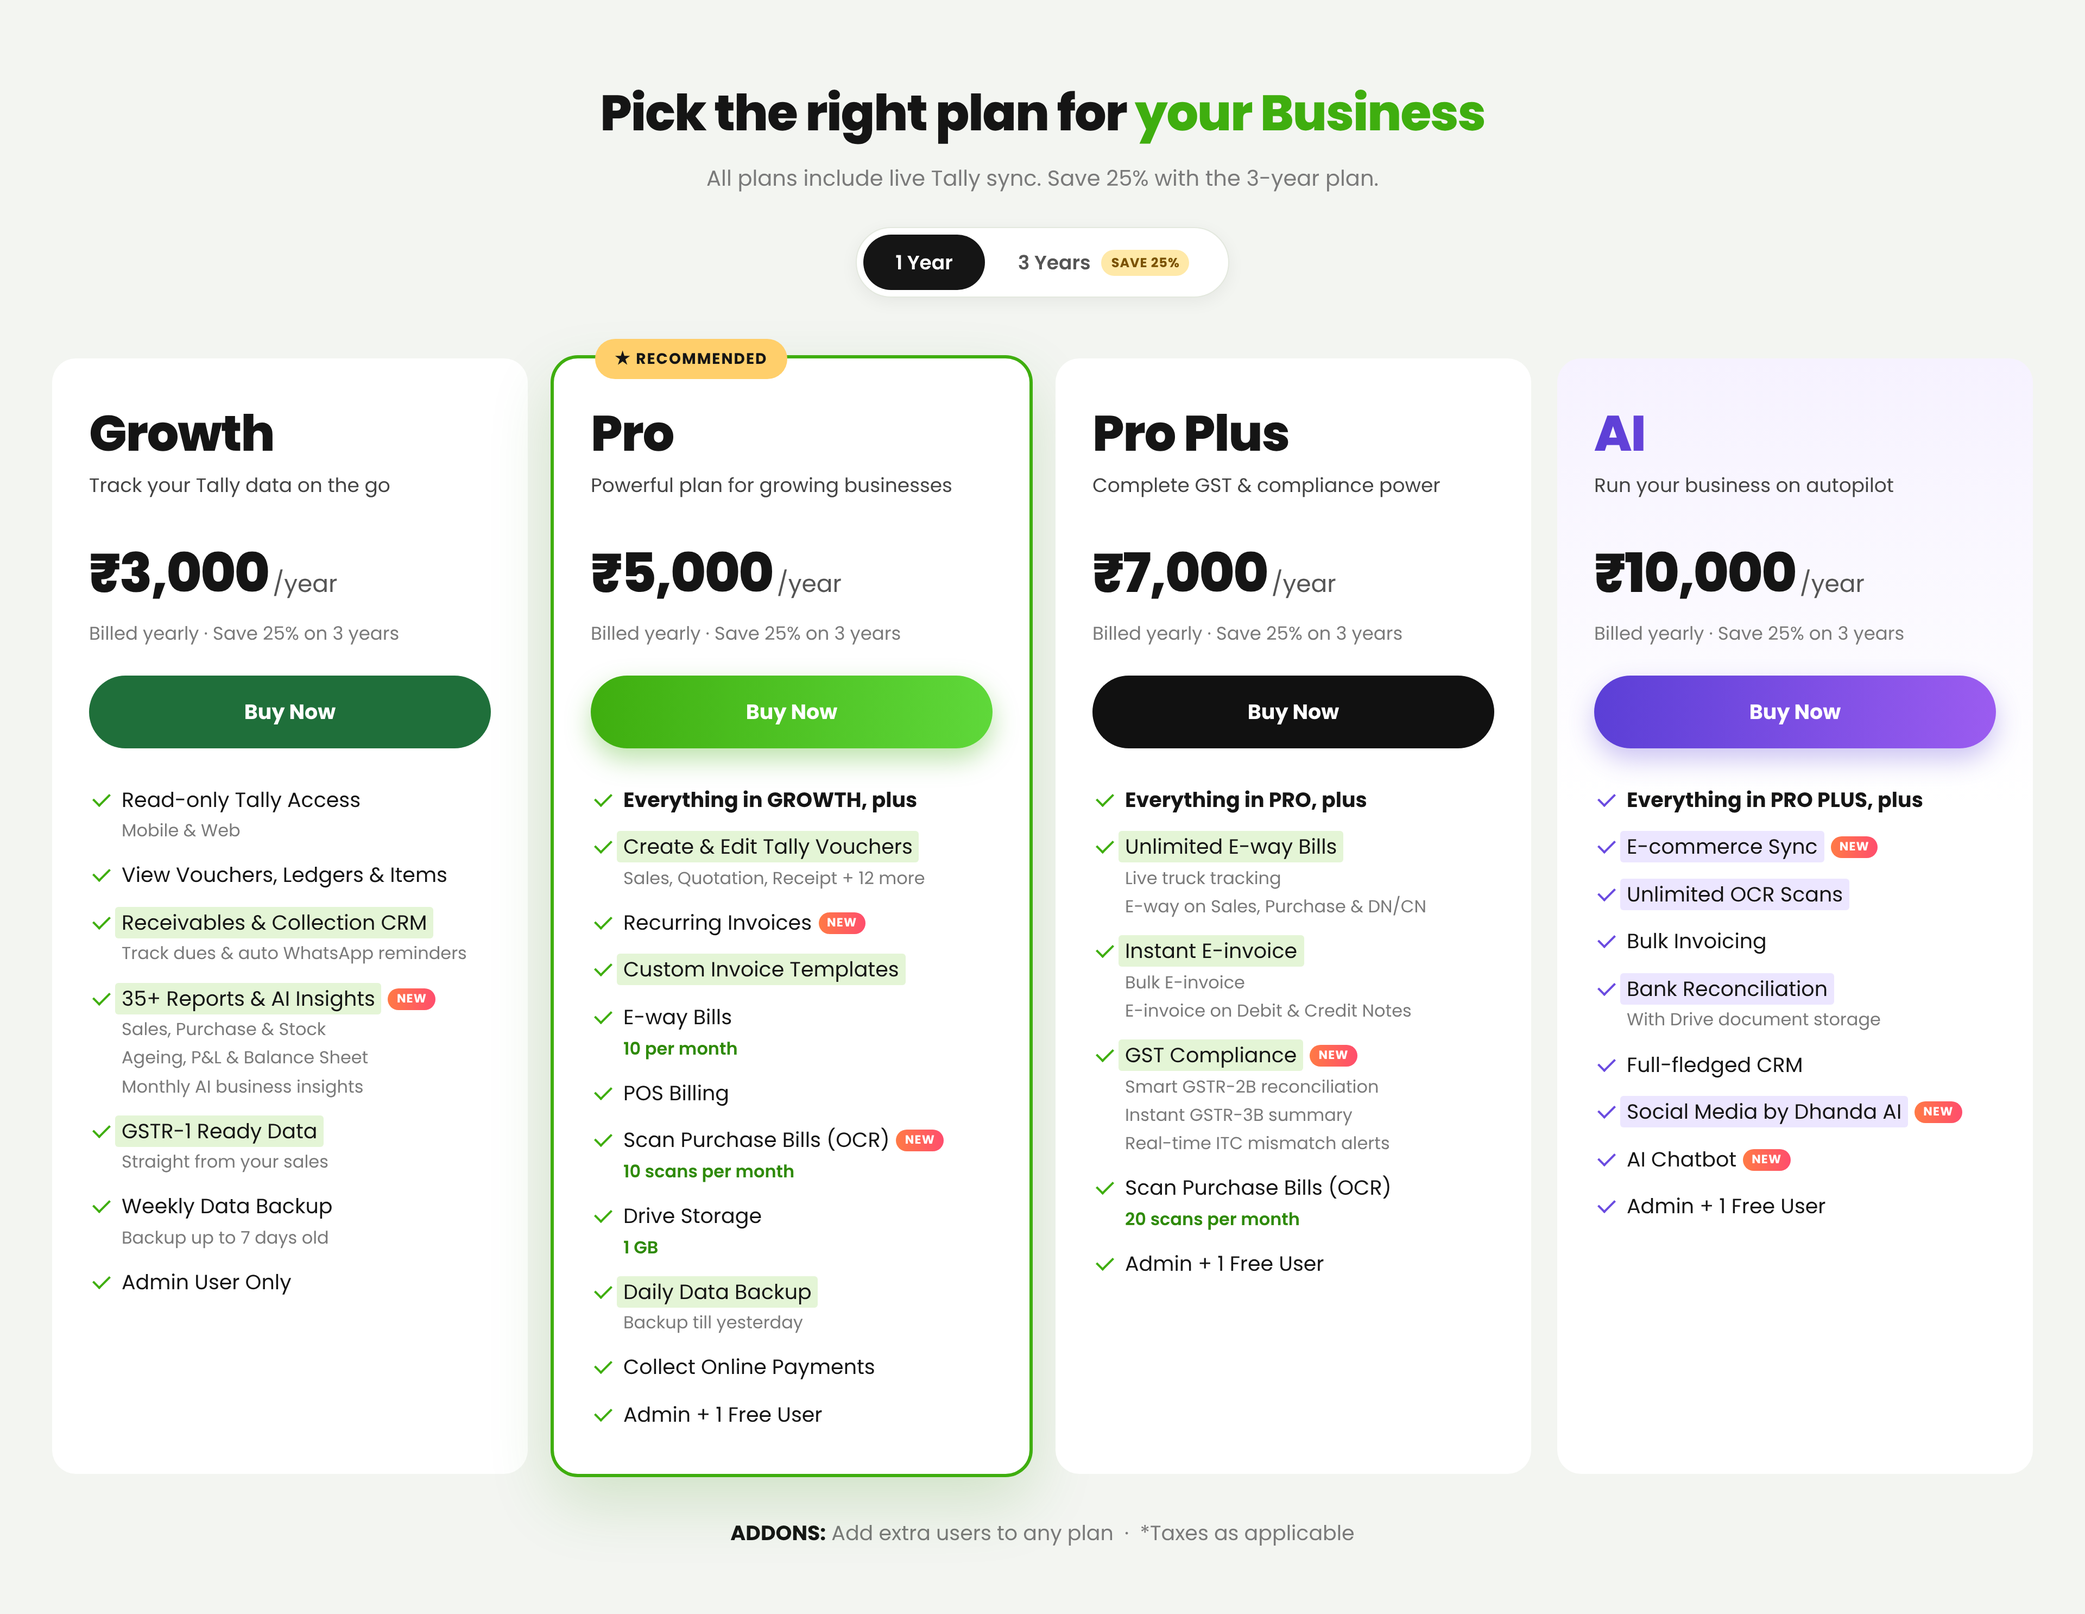
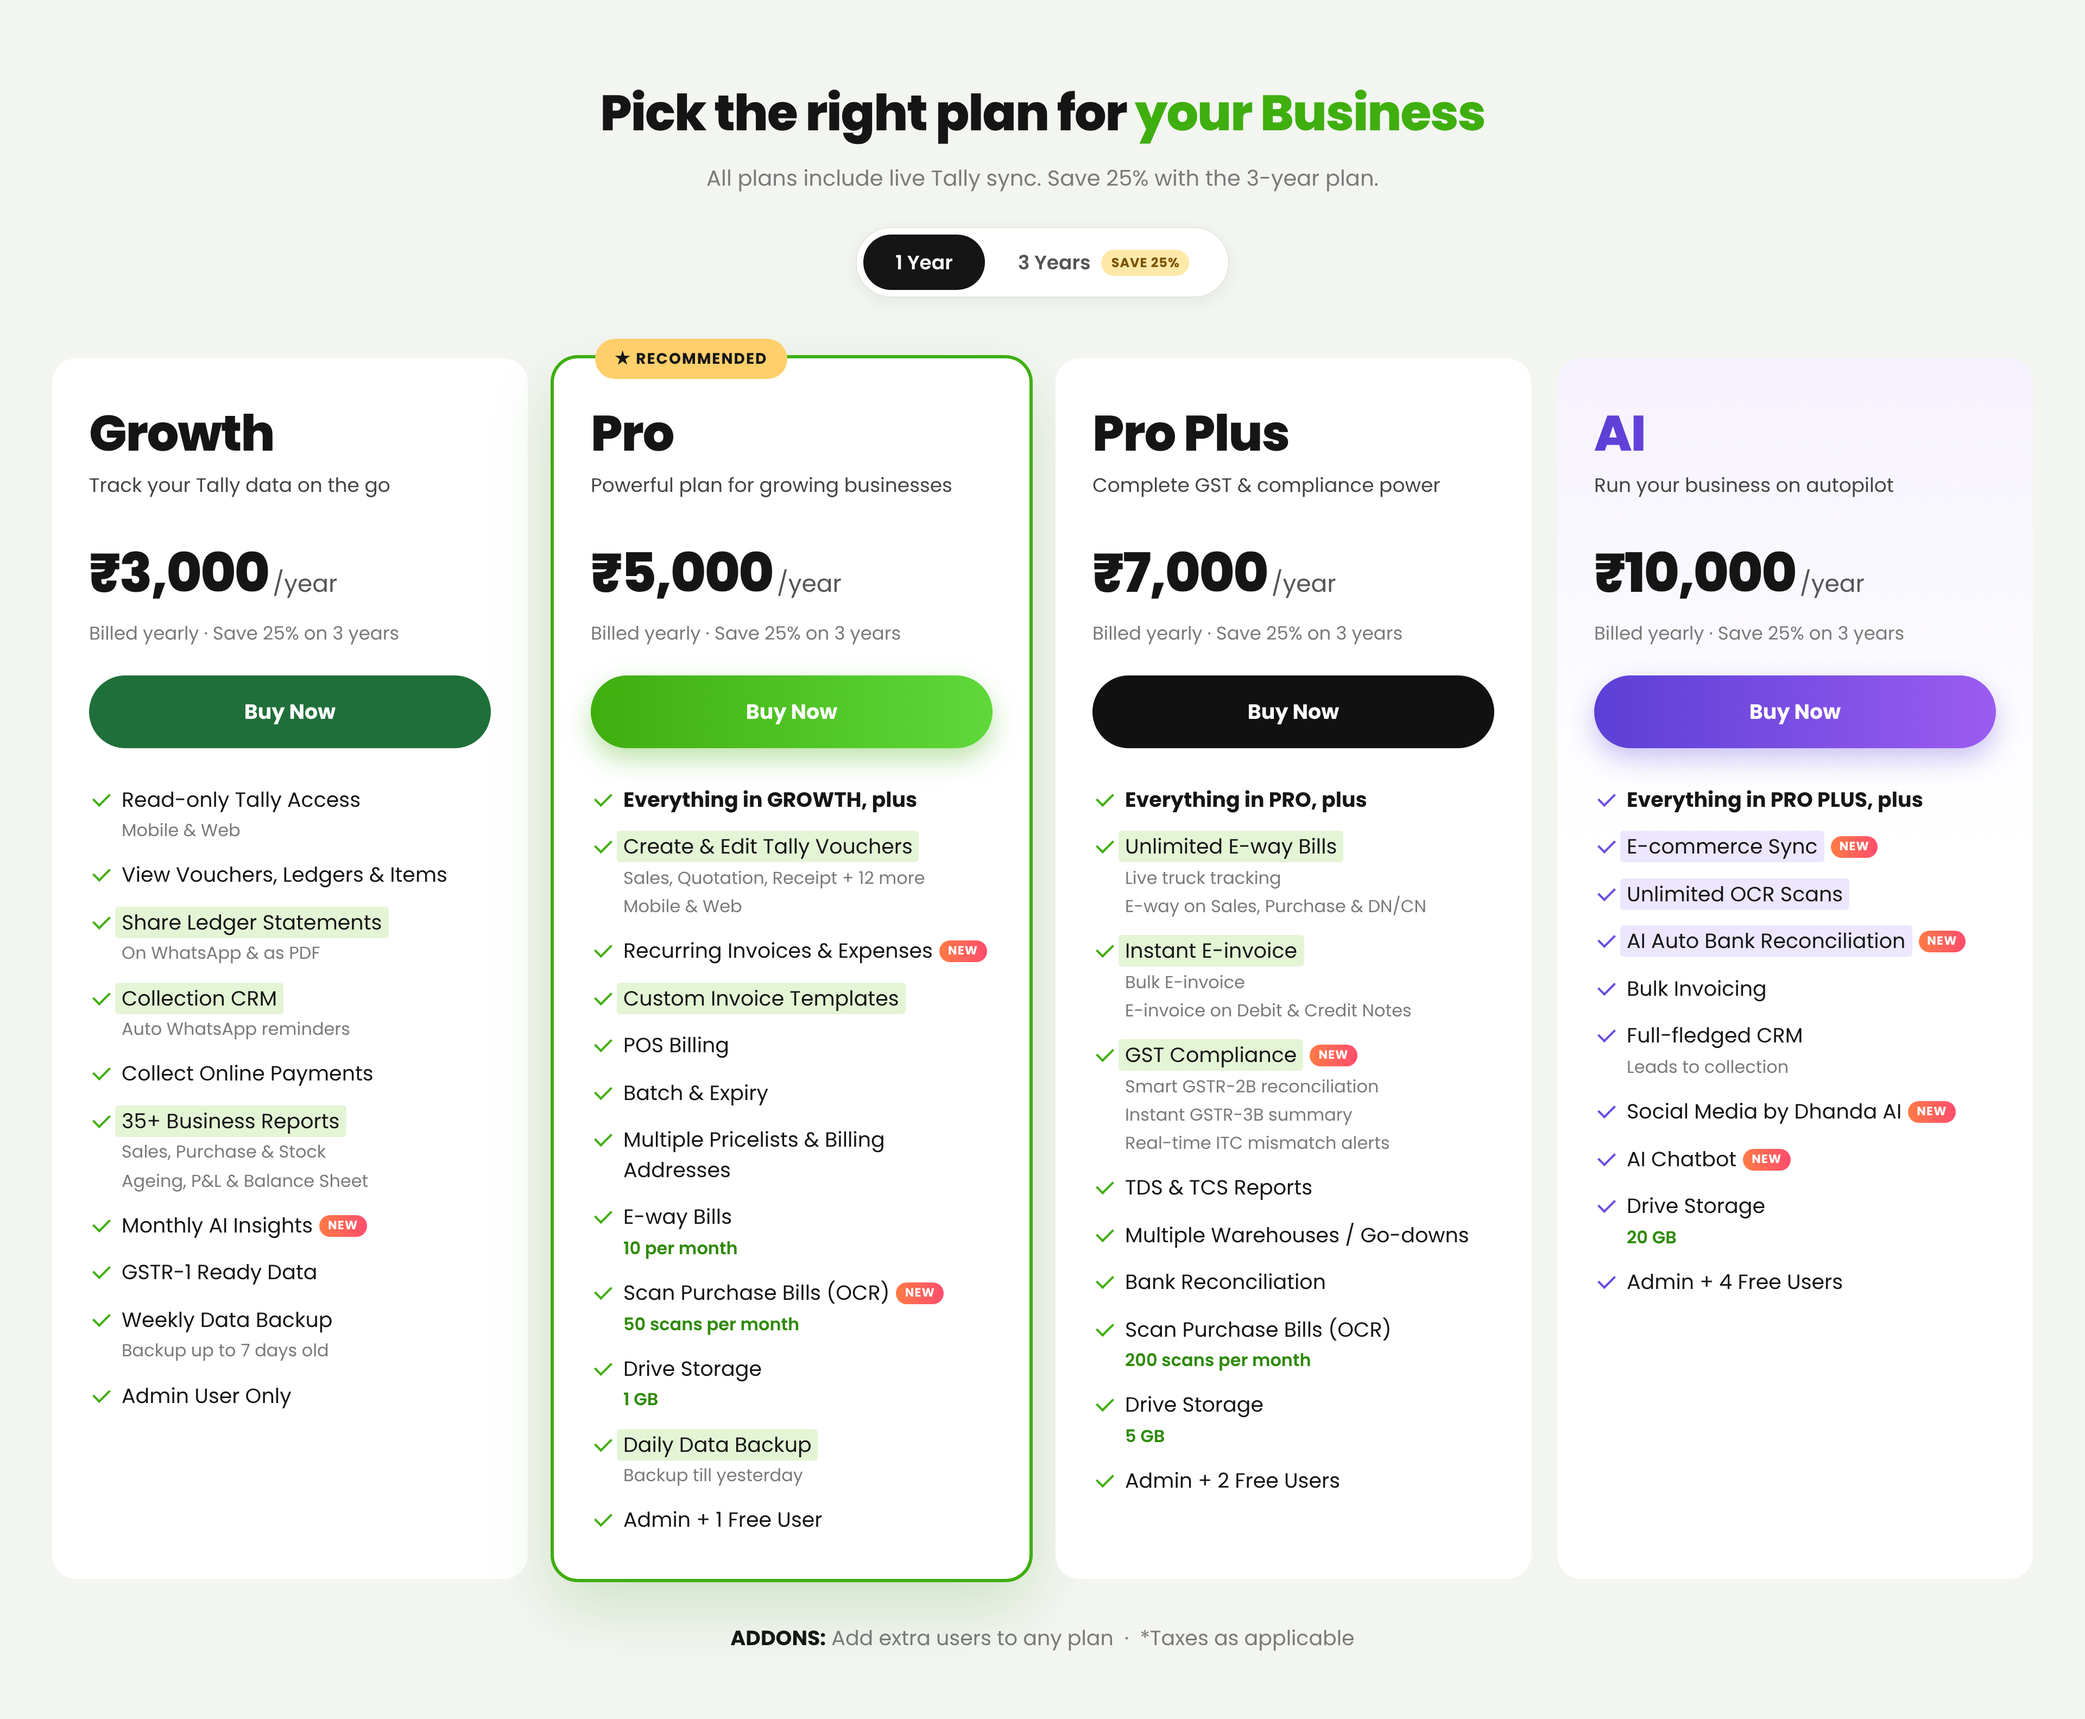
Pricing cards: final 4-plan bundle (Growth, Pro, Pro Plus, AI)
Claude-Session: https://claude.ai/code/session_01TUFe6273V25gsCzznixesV

diff --git a/livekeeping-pricing/cards.html b/livekeeping-pricing/cards.html
@@ -154,9 +154,12 @@
       <ul>
         <li><div>Read-only Tally Access<span class="note ln">Mobile &amp; Web</span></div></li>
         <li><div>View Vouchers, Ledgers &amp; Items</div></li>
-        <li><div><span class="hl">Receivables &amp; Collection CRM</span><span class="note ln">Track dues &amp; auto WhatsApp reminders</span></div></li>
-        <li><div><span class="hl">35+ Reports &amp; AI Insights</span><span class="new">NEW</span><span class="note ln">Sales, Purchase &amp; Stock</span><span class="note ln">Ageing, P&amp;L &amp; Balance Sheet</span><span class="note ln">Monthly AI business insights</span></div></li>
-        <li><div><span class="hl">GSTR-1 Ready Data</span><span class="note ln">Straight from your sales</span></div></li>
+        <li><div><span class="hl">Share Ledger Statements</span><span class="note ln">On WhatsApp &amp; as PDF</span></div></li>
+        <li><div><span class="hl">Collection CRM</span><span class="note ln">Auto WhatsApp reminders</span></div></li>
+        <li><div>Collect Online Payments</div></li>
+        <li><div><span class="hl">35+ Business Reports</span><span class="note ln">Sales, Purchase &amp; Stock</span><span class="note ln">Ageing, P&amp;L &amp; Balance Sheet</span></div></li>
+        <li><div>Monthly AI Insights<span class="new">NEW</span></div></li>
+        <li><div>GSTR-1 Ready Data</div></li>
         <li><div>Weekly Data Backup<span class="note ln">Backup up to 7 days old</span></div></li>
         <li><div>Admin User Only</div></li>
       </ul>
@@ -178,15 +181,16 @@
       <div class="btn">Buy Now</div>
       <ul>
         <li><div><b>Everything in GROWTH, plus</b></div></li>
-        <li><div><span class="hl">Create &amp; Edit Tally Vouchers</span><span class="note ln">Sales, Quotation, Receipt + 12 more</span></div></li>
-        <li><div>Recurring Invoices<span class="new">NEW</span></div></li>
+        <li><div><span class="hl">Create &amp; Edit Tally Vouchers</span><span class="note ln">Sales, Quotation, Receipt + 12 more</span><span class="note ln">Mobile &amp; Web</span></div></li>
+        <li><div>Recurring Invoices &amp; Expenses<span class="new">NEW</span></div></li>
         <li><div><span class="hl">Custom Invoice Templates</span></div></li>
-        <li><div>E-way Bills<span class="note ln lim">10 per month</span></div></li>
         <li><div>POS Billing</div></li>
-        <li><div>Scan Purchase Bills (OCR)<span class="new">NEW</span><span class="note ln lim">10 scans per month</span></div></li>
+        <li><div>Batch &amp; Expiry</div></li>
+        <li><div>Multiple Pricelists &amp; Billing Addresses</div></li>
+        <li><div>E-way Bills<span class="note ln lim">10 per month</span></div></li>
+        <li><div>Scan Purchase Bills (OCR)<span class="new">NEW</span><span class="note ln lim">50 scans per month</span></div></li>
         <li><div>Drive Storage<span class="note ln lim">1 GB</span></div></li>
         <li><div><span class="hl">Daily Data Backup</span><span class="note ln">Backup till yesterday</span></div></li>
-        <li><div>Collect Online Payments</div></li>
         <li><div>Admin + 1 Free User</div></li>
       </ul>
     </div>
@@ -209,8 +213,12 @@
         <li><div><span class="hl">Unlimited E-way Bills</span><span class="note ln">Live truck tracking</span><span class="note ln">E-way on Sales, Purchase &amp; DN/CN</span></div></li>
         <li><div><span class="hl">Instant E-invoice</span><span class="note ln">Bulk E-invoice</span><span class="note ln">E-invoice on Debit &amp; Credit Notes</span></div></li>
         <li><div><span class="hl">GST Compliance</span><span class="new">NEW</span><span class="note ln">Smart GSTR-2B reconciliation</span><span class="note ln">Instant GSTR-3B summary</span><span class="note ln">Real-time ITC mismatch alerts</span></div></li>
-        <li><div>Scan Purchase Bills (OCR)<span class="note ln lim">20 scans per month</span></div></li>
-        <li><div>Admin + 1 Free User</div></li>
+        <li><div>TDS &amp; TCS Reports</div></li>
+        <li><div>Multiple Warehouses / Go-downs</div></li>
+        <li><div>Bank Reconciliation</div></li>
+        <li><div>Scan Purchase Bills (OCR)<span class="note ln lim">200 scans per month</span></div></li>
+        <li><div>Drive Storage<span class="note ln lim">5 GB</span></div></li>
+        <li><div>Admin + 2 Free Users</div></li>
       </ul>
     </div>
 
@@ -231,12 +239,13 @@
         <li><div><b>Everything in PRO PLUS, plus</b></div></li>
         <li><div><span class="hl">E-commerce Sync</span><span class="new">NEW</span></div></li>
         <li><div><span class="hl">Unlimited OCR Scans</span></div></li>
+        <li><div><span class="hl">AI Auto Bank Reconciliation</span><span class="new">NEW</span></div></li>
         <li><div>Bulk Invoicing</div></li>
-        <li><div><span class="hl">Bank Reconciliation</span><span class="note ln">With Drive document storage</span></div></li>
-        <li><div>Full-fledged CRM</div></li>
-        <li><div><span class="hl">Social Media by Dhanda AI</span><span class="new">NEW</span></div></li>
+        <li><div>Full-fledged CRM<span class="note ln">Leads to collection</span></div></li>
+        <li><div>Social Media by Dhanda AI<span class="new">NEW</span></div></li>
         <li><div>AI Chatbot<span class="new">NEW</span></div></li>
-        <li><div>Admin + 1 Free User</div></li>
+        <li><div>Drive Storage<span class="note ln lim">20 GB</span></div></li>
+        <li><div>Admin + 4 Free Users</div></li>
       </ul>
     </div>
   </div>
